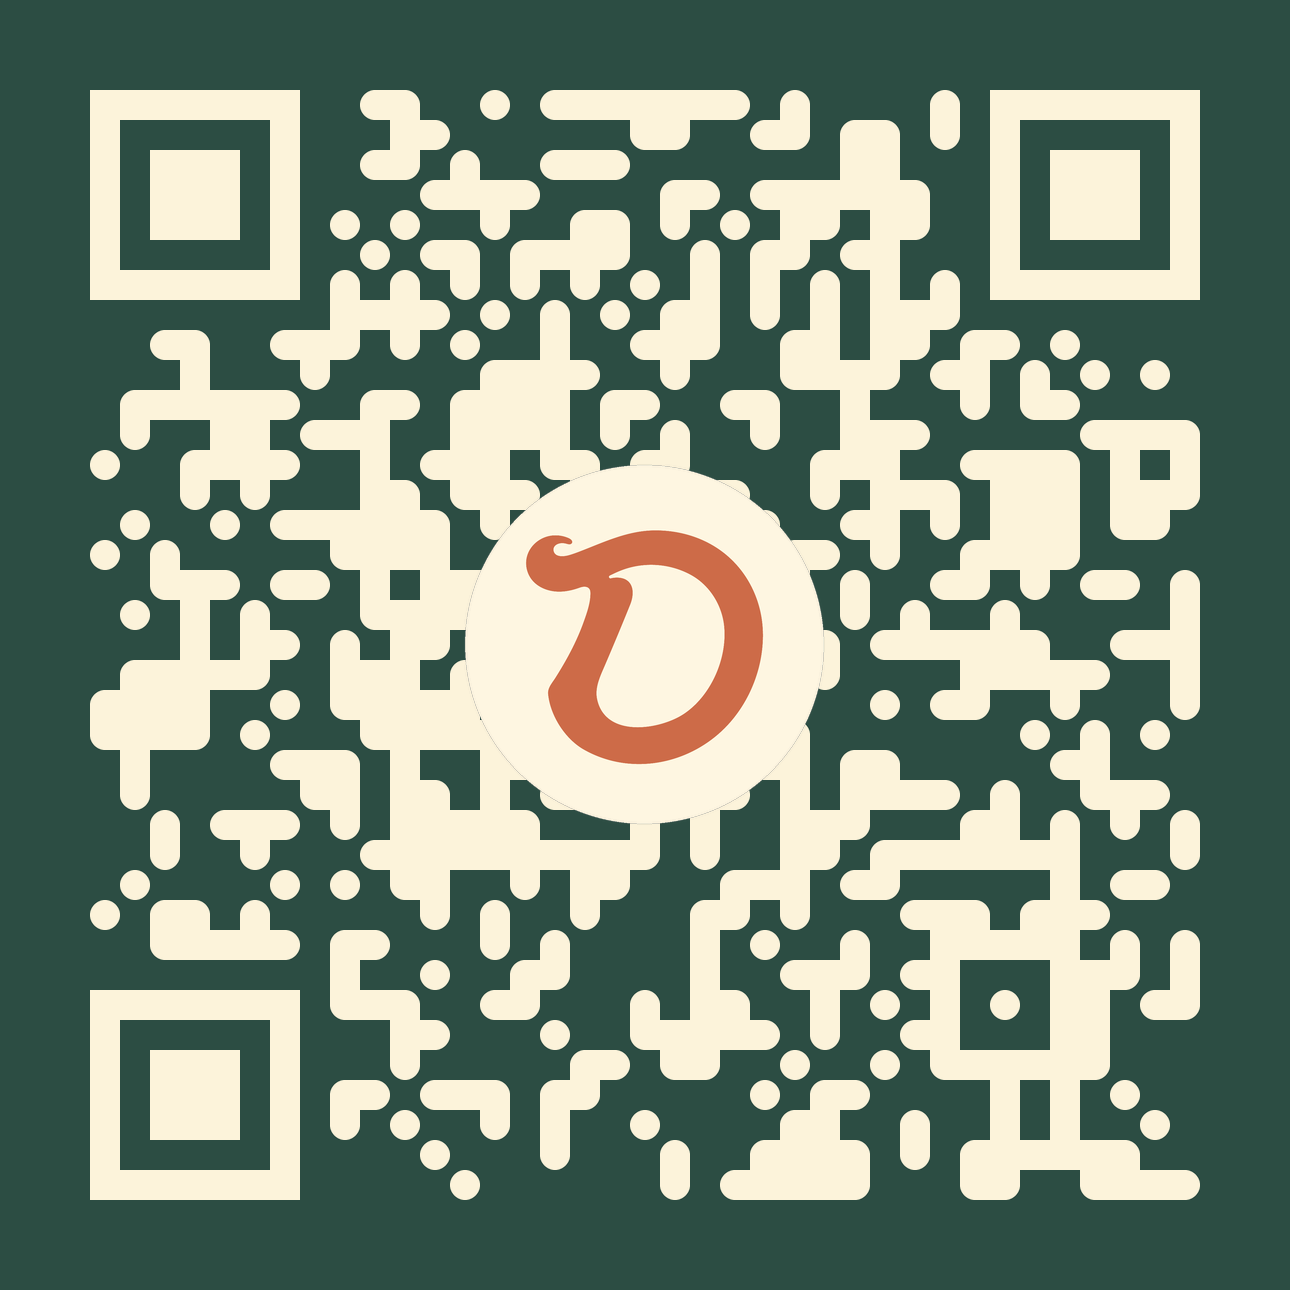
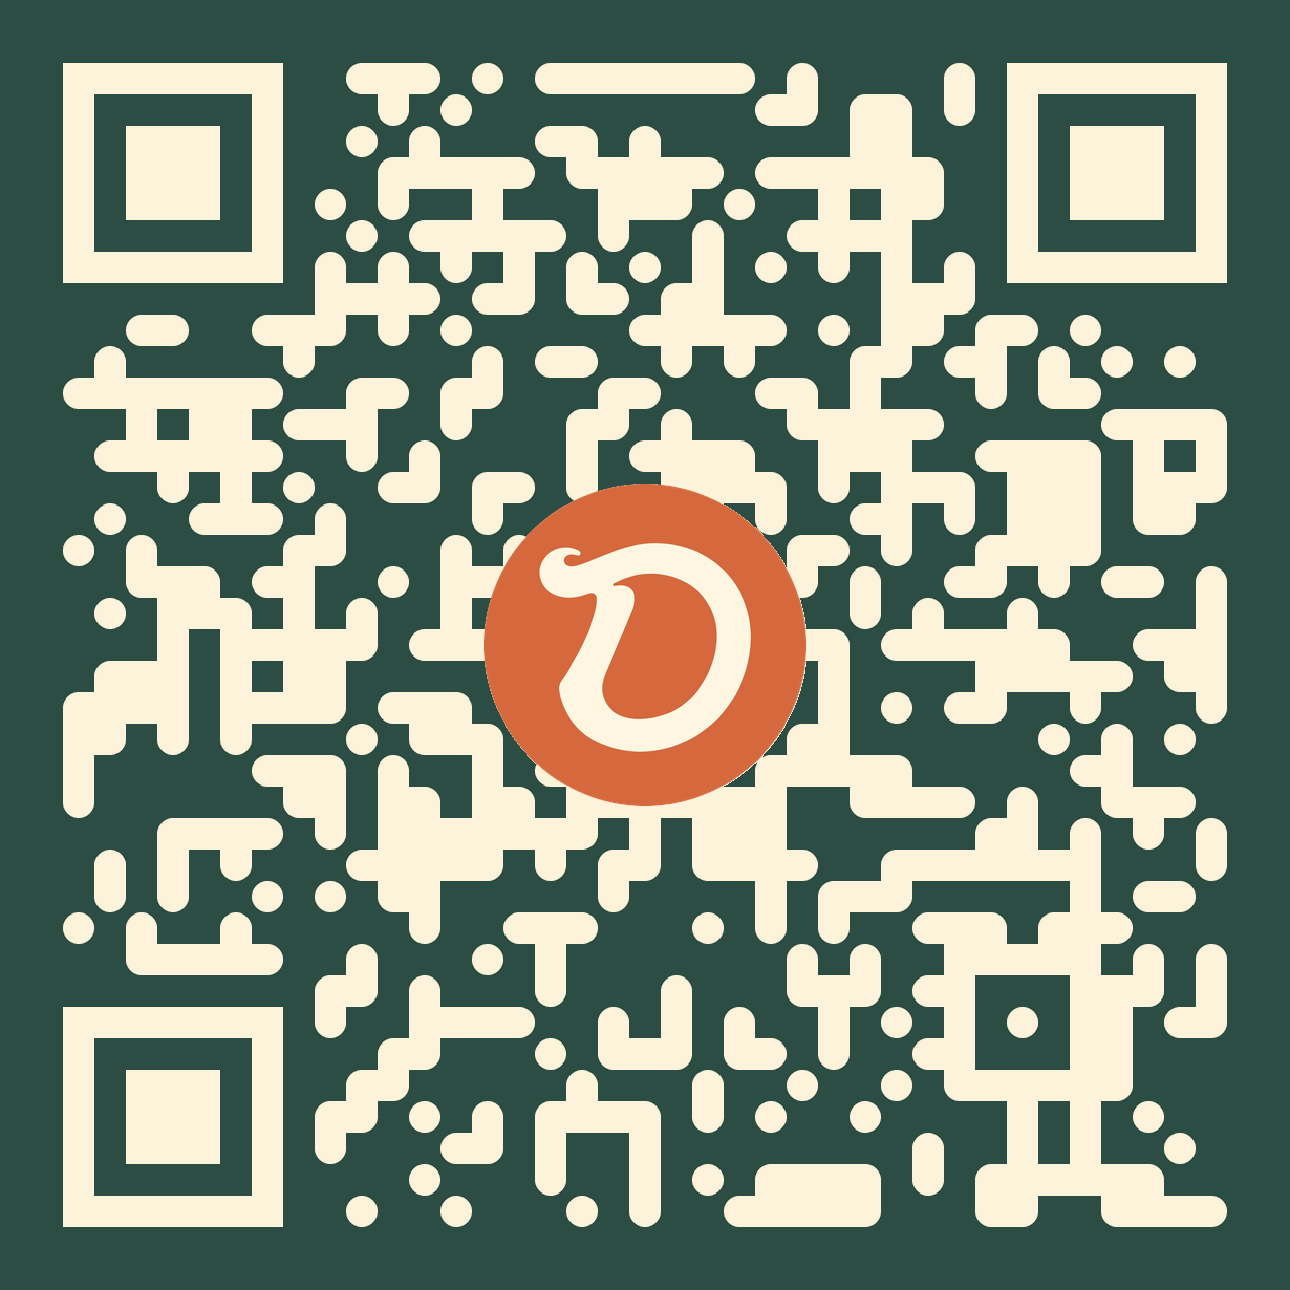
feat: Add dynamic Home QR codes and apply smoothed pixel aesthetic

diff --git a/consultation/index.html b/consultation/index.html
@@ -1,0 +1,17 @@
+<!DOCTYPE html>
+<html>
+  <head>
+    <meta charset="utf-8">
+    <title>Redirecting to Dankley Consultation...</title>
+    <!-- This is the line that will redirect scanners to the Consultation page! -->
+    <meta http-equiv="refresh" content="0; url=https://dankley.com">
+  </head>
+  <body>
+    <!-- Fallback if the redirect takes a moment -->
+    <p>Redirecting you to Dankley Consultation...</p>
+    <script>
+      // Fallback JS redirect
+      window.location.href = "https://dankley.com";
+    </script>
+  </body>
+</html>

diff --git a/AGENT_HANDOFF_QR.md b/AGENT_HANDOFF_QR.md
@@ -1,0 +1,43 @@
+# Agent Handoff: Dankley Queens Dynamic QR Codes
+
+## Overview
+This repository manages the dynamic QR codes for Dankley Queens. 
+Because the physical QR codes are printed on flyers and store materials, we use a **Dynamic URL Redirection Architecture** via Vercel instead of hardcoding destination URLs into the QR images themselves.
+
+## Architecture
+1. **The QR Codes:**
+   The printed QR codes route to a Vercel application (e.g., `https://dankley-queensqr.vercel.app/`).
+2. **The Vercel Server:**
+   The Vercel server hosts simple `index.html` pages containing `<meta http-equiv="refresh">` tags and JavaScript fallbacks.
+3. **The Destination:**
+   The HTML pages instantly forward the user to the live URLs (e.g., `https://dankley.com/store/` or Eventbrite).
+
+## How to Generate QR Codes
+If you need to generate new QR codes or change the color variants, run the `generate_qr.py` script located in the root of the `QR_codes` workspace.
+
+```bash
+# 1. Install dependencies
+pip install qrcode pillow
+
+# 2. Run the generator
+python generate_qr.py
+```
+
+### Script Features
+- Generates **Dark Green** (`#1A4331`) and **Terracotta** (`#E2725B`) variations of each URL.
+- Automatically saves the outputs into the `qr assets/` directory.
+- Currently configured for three endpoints:
+  - `Store`: Points to the Vercel root.
+  - `Events`: Points to the Vercel `/events` route.
+  - `Consultation`: Points directly to `https://dankley.com`.
+
+## To Update a Destination
+Do **NOT** regenerate the QR codes if a URL changes. Instead, update the corresponding `index.html` file in the repository (either the root `index.html` or `events/index.html`) and let Vercel deploy the update. 
+
+*Exception:* If you are adding a completely new endpoint (like `Consultation`), you must update `generate_qr.py` to add the new URL constant and run the script to output the PNGs.
+
+### V2 Update: Premium Aesthetic & Dynamic Consultation Routing (Append-Only Ledger)
+- **Aesthetic Overhaul**: Generator updated to use `StyledPilImage` with `RoundedModuleDrawer()` to yield smooth, dotted data pixels.
+- **Color Inversion & Logos**: The background color is now solid Dark Green (`#2c4d43`) or Terracotta (`#cd6b48`), and the QR data pixels are Dankley Cream (`#fcf3da`). The central logo uses the inverse color 'D' sitting on a circular solid cream mask.
+- **Dynamic Consultation Routing**: The `Consultation` QR code logic was updated to point to the dynamic Vercel route (`https://dankley-queensqr.vercel.app/consultation`) instead of hardcoding `dankley.com`. A new `consultation/index.html` file was created to handle the redirection.
+- **Git Tracking Rules**: The Python generator scripts and original logo images are explicitly excluded from Git commits. Only the generated PNGs in qr assets/ and the routing HTML files should be staged and pushed to Vercel.
